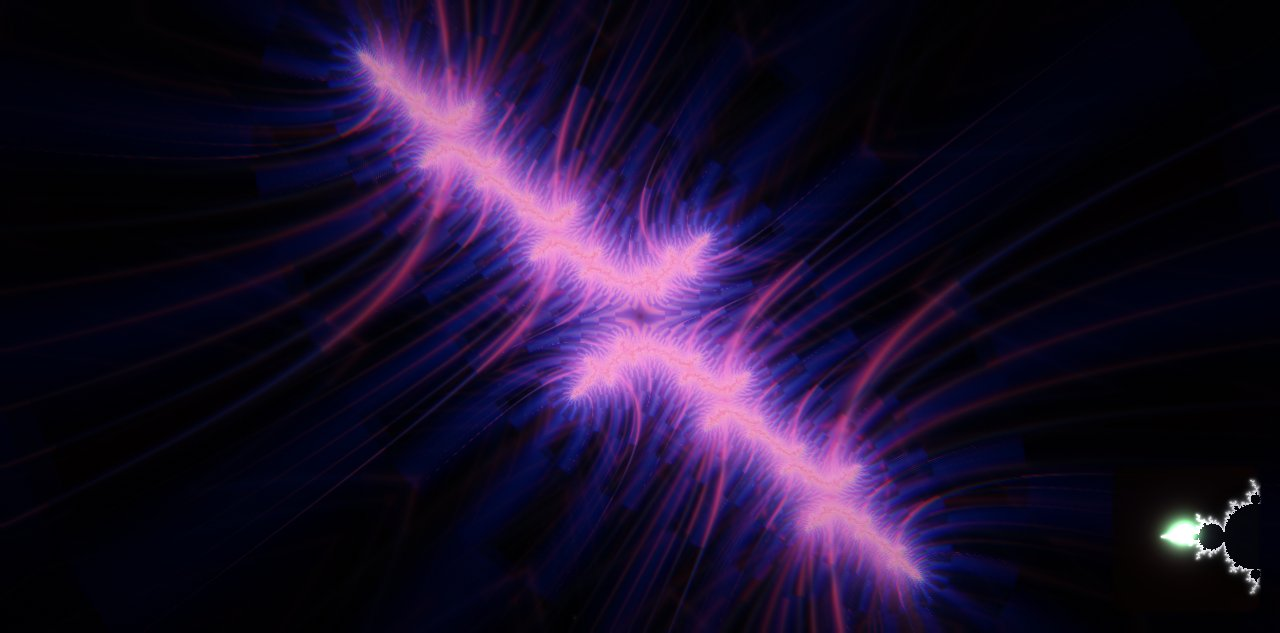
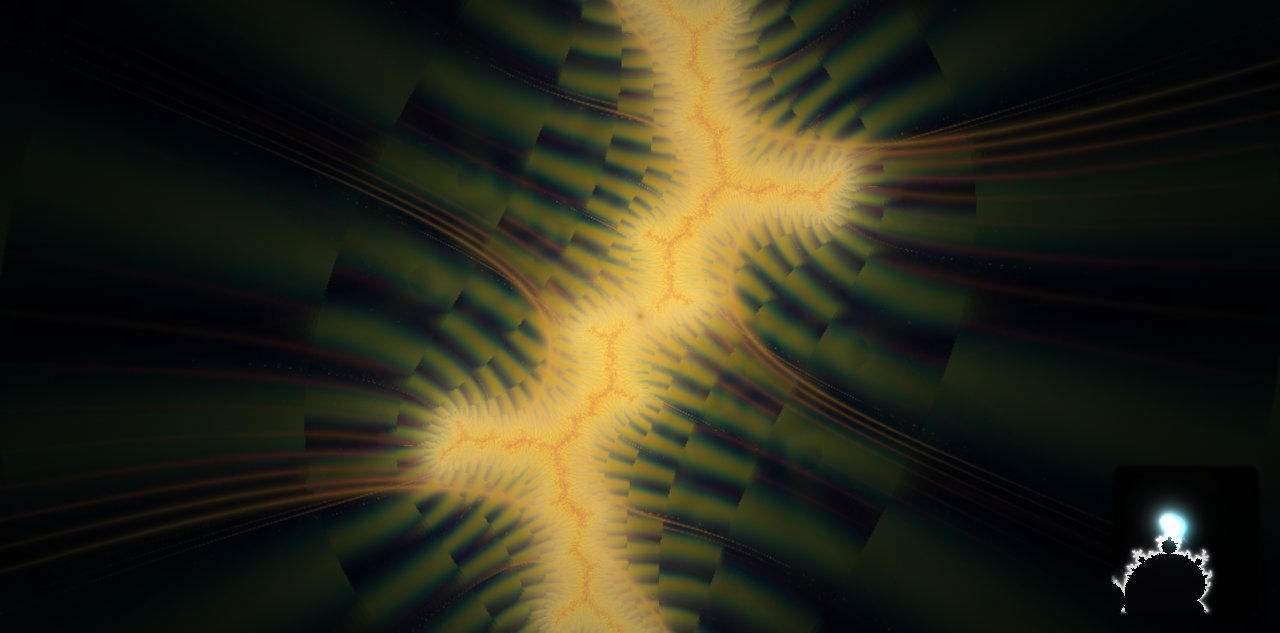
v0.1 acceptance sweep green (check, math, parity fake 0 diff, parity real, monitor 0 spikes, 4 scenes, real start path on index.html and dist/eigenwobble.html); monitor watches cPath with a carried reference; 60 s auto-pick shows all four scenes

diff --git a/tools/monitor.js b/tools/monitor.js
@@ -1,8 +1,10 @@
 // Continuity monitor, injected by the harness via {eval} (strip the // lines first). Per frame it measures the jump of
-// c normalised by the active chart's scale (baby size). Legal cuts: pathCut<=2, a kick just rose, or the mode changed.
+// the chart position cPath (c before the beat-kick blend — the kick is a declared jump-cut with a w=9 spring back)
+// normalised by the active chart's scale (baby size). Legal cuts: pathCut<=2, a kick just rose, or the mode changed.
 // A *violation* is a spike: d>0.06 and d>2.5x the previous frame's motion — a discontinuity, not fast spring motion.
 // Smooth fast frames (d>0.06 but ramping) are counted in MON.fast; v3 produces those in EXT right after drops.
-window.MON={viol:[],fast:0,max:0,n:0};(function(){let pc=null,pk=0,pm='',pd=0;function f(){const N=CARD.NAV||CARD.home,c=[N.c[0],N.c[1]],sc=N.baby?N.baby.size:1;
-if(pc){const d=Math.hypot(c[0]-pc[0],c[1]-pc[1])/sc,legal=N.pathCut<=2||N.kick.x>pk+0.05||N.mode!==pm;MON.n++;
-if(!legal){MON.max=Math.max(MON.max,d);if(d>0.06){if(d>2.5*pd+0.01)MON.viol.push([performance.now()|0,+d.toFixed(3),+pd.toFixed(3),N.mode,!!N.baby]);else MON.fast++;}}pd=legal?0:d;}
+// The 0.3 s after a mode change is legal too: the exterior springs launch fastest on their first frames (v3 identical).
+window.MON={viol:[],fast:0,max:0,n:0};(function(){let pc=null,pk=0,pm='',pd=0,tm=-9;function f(){const N=CARD.NAV||CARD.home,c=[N.cPath[0],N.cPath[1]],sc=N.baby?N.baby.size:1,t=performance.now();
+if(pc){if(N.mode!==pm)tm=t;const d=Math.hypot(c[0]-pc[0],c[1]-pc[1])/sc,legal=N.pathCut<=2||N.kick.x>pk+0.05||N.mode!==pm||t-tm<300;MON.n++;
+if(!legal){MON.max=Math.max(MON.max,d);if(d>0.06){if(d>2.5*pd+0.01)MON.viol.push([performance.now()|0,+d.toFixed(3),+pd.toFixed(3),N.mode,!!N.baby]);else MON.fast++;}}pd=d;}
 pc=c;pk=N.kick.x;pm=N.mode;requestAnimationFrame(f);}f();})()

diff --git a/docs/DECISIONS.md b/docs/DECISIONS.md
@@ -35,7 +35,9 @@ Sources are read-only: `~/Documents/Kraftek/Cardioid/cardioid3.html` (v3, truste
 - **Continuity monitor flags spikes, not speed.** Ported as-is, `monitor.js` flagged v3 itself: 50+ frames per minute
   of 0.06–0.11 per-frame motion in EXT right after drops (the θ/log G springs are fast there). Those are smooth ramps.
   The monitor now counts them in `MON.fast` and flags only spikes (`d > 0.06` and `d > 2.5·dPrev + 0.01`), which is
-  the invariant that matters (chart cuts). Eigenwobble: 0 violations / 60 s (`fast` 36).
+  the invariant that matters (chart cuts). It watches `cPath` (the chart position before the beat-kick blend: the kick
+  is a declared jump-cut whose w=9 spring-back is fastest on its second frame) and carries the previous motion across
+  legal frames (a kick-rise frame must not reset the reference). Eigenwobble: 0 violations / 60 s over 4 drops.
 - **Parity clock.** `tools/parity.js` injects a deterministic 60 Hz rAF clock (`CLOCK=1` in cdp.js) into both pages.
   It starts ticking at the page's first `requestAnimationFrame` call, because a module page registers its loop a few
   real frames later than v3's sync script and the first `dt` would otherwise differ (found: 3-frame phase offset).

diff --git a/docs/HARNESS.md b/docs/HARNESS.md
@@ -81,7 +81,9 @@ python3 tools/montage.py tools/work/m.jpg 2 tools/work/s1-t6.jpg tools/work/s1-t
 ```
 MON=$(grep -v '^//' tools/monitor.js | tr '\n' ' ' | sed 's/"/\\"/g')
 GPU=1 node tools/cdp.js 'test&fake=0' "[{\"wait\":1500},{\"eval\":\"$MON;'ok'\"},{\"wait\":60000},{\"eval\":\"JSON.stringify({n:MON.n,fast:MON.fast,viol:MON.viol})\"}]"
-# => {"n":3590,"fast":36,"viol":[]}     <- viol must be []; fast = smooth fast frames (exterior after drops), fine
+# => {"n":3519,"fast":97,"viol":[]}     <- viol must be []; fast = smooth fast frames (exterior springs after drops), fine
+# It watches NAV.cPath (the chart position before the beat-kick blend); a violation is a spike: d>0.06 and d>2.5x the
+# previous frame's motion, outside declared cuts (pathCut<=2, a kick rise, a mode change and the 0.3 s after it).
 ```
 
 ## Parity with v3 (core/engine changes only)
